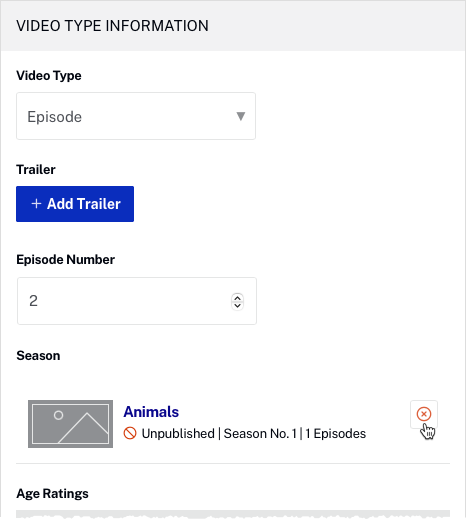
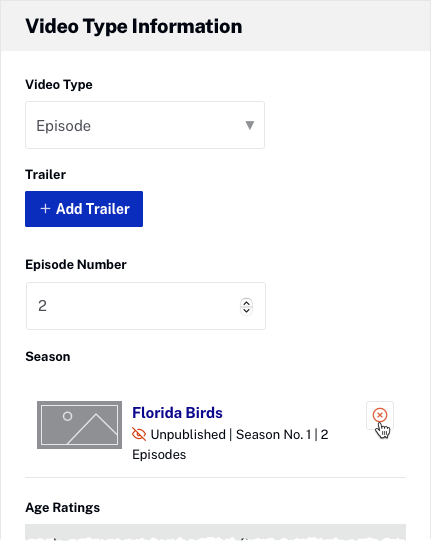
updates

diff --git a/_site/media/creating-series-seasons-episodes.html b/_site/media/creating-series-seasons-episodes.html
@@ -866,7 +866,7 @@ function doGTranslate(lang_pair) {if(lang_pair.value)lang_pair=lang_pair.value;i
             <ul>
               <li><strong>Landscape</strong> - 16x9 aspect ratio, minimum 2000px wide</li>
               <li><strong>Portrait</strong> - 2x3 aspect ratio, minimum 500px wide</li>
-              <li><strong>Ultra Wide</strong> - 21x9 aspect ratio, minimum 2000px wide</li>
+              <li><strong>Ultrawide</strong> - 21x9 aspect ratio, minimum 2000px wide</li>
             </ul>
           </li>
           <li><strong>Title</strong> - Viewer facing name for the series (displayed in Beacon app)</li>
@@ -1004,11 +1004,11 @@ function doGTranslate(lang_pair) {if(lang_pair.value)lang_pair=lang_pair.value;i
           <li><strong>Name</strong> - The identifier of the season; this is not a customer facing name</li>
           <li><strong>Season Number</strong> - An integer number representing the season sequence
             in the series.</li>
-          <li><strong>Landscape, Portrait and Ultra Wide </strong>Images - Click the <strong>Upload new image</strong> link to upload an image to use based upon the following specifications:
+          <li><strong>Landscape, Portrait and Ultrawide </strong>Images - Click the <strong>Upload new image</strong> link to upload an image to use based upon the following specifications:
             <ul>
               <li><strong>Landscape</strong> - 16x9 aspect ratio, minimum 2000px wide</li>
               <li><strong>Portrait</strong> - 2x3 aspect ratio, minimum 500px wide</li>
-              <li><strong>Ultra Wide</strong> - 21x9 aspect ratio, minimum 2000px wide</li>
+              <li><strong>Ultrawide</strong> - 21x9 aspect ratio, minimum 2000px wide</li>
             </ul>
           </li>
           <li><strong>Title</strong> - Viewer facing name for the season (displayed in Beacon app)
@@ -1098,7 +1098,7 @@ function doGTranslate(lang_pair) {if(lang_pair.value)lang_pair=lang_pair.value;i
   </section>
   <section class="bcls-section">
     <h2 id="adding_episodes">Adding episodes to seasons</h2>
-    <p> Before adding episodes (videos) to seasons, the videos should be uploaded to your Brightcove Beacon account. All videos added to a season will be displayed on the right side of the series Overview page.</p>
+    <p> Before adding episodes (videos) to seasons, the videos should be uploaded to your Brightcove Beacon account. All videos added to a season will be displayed on the right side of the season Overview page.</p>
     <figure class="bcls-figure"><img
           class="bcls-image"
           src="/assets/images/media/series-episode-list.png"
@@ -1129,7 +1129,7 @@ function doGTranslate(lang_pair) {if(lang_pair.value)lang_pair=lang_pair.value;i
       <li>In the primary navigation, click <strong>Media</strong>.</li>
       <li>Click <strong>All videos</strong>.</li>
       <li>Click on a video title to open the video details.</li>
-      <li>In the <strong>VIDEO TYPE INFORMATION</strong> section, set the <strong>Video Type</strong> to <strong>Episode</strong>.</li>
+      <li>In the <strong>Video Type Information</strong> section, set the <strong>Video Type</strong> to <strong>Episode</strong>.</li>
       <li>Click <strong>Add to Season</strong>.</li>
       <li>Click on a series and then click <strong>Next</strong>.
         <figure class="bcls-figure"><img
@@ -1177,7 +1177,7 @@ function doGTranslate(lang_pair) {if(lang_pair.value)lang_pair=lang_pair.value;i
       <li>In the primary navigation, click <strong>Media</strong>.</li>
       <li>Click <strong>All videos</strong>.</li>
       <li>Click on a video title to open the video details.</li>
-      <li>In the <strong>VIDEO TYPE INFORMATION</strong> section, hover over the season and click the remove (<img
+      <li>In the <strong>Video Type Information</strong> section, hover over the season and click the remove (<img
           class="bcls-image"
           src="/assets/images/media/icon-remove.png"
           alt=""

diff --git a/media/creating-series-seasons-episodes.html b/media/creating-series-seasons-episodes.html
@@ -60,7 +60,7 @@ parent: Managing Media
             <ul>
               <li><strong>Landscape</strong> - 16x9 aspect ratio, minimum 2000px wide</li>
               <li><strong>Portrait</strong> - 2x3 aspect ratio, minimum 500px wide</li>
-              <li><strong>Ultra Wide</strong> - 21x9 aspect ratio, minimum 2000px wide</li>
+              <li><strong>Ultrawide</strong> - 21x9 aspect ratio, minimum 2000px wide</li>
             </ul>
           </li>
           <li><strong>Title</strong> - Viewer facing name for the series (displayed in Beacon app)</li>
@@ -198,11 +198,11 @@ parent: Managing Media
           <li><strong>Name</strong> - The identifier of the season; this is not a customer facing name</li>
           <li><strong>Season Number</strong> - An integer number representing the season sequence
             in the series.</li>
-          <li><strong>Landscape, Portrait and Ultra Wide </strong>Images - Click the <strong>Upload new image</strong> link to upload an image to use based upon the following specifications:
+          <li><strong>Landscape, Portrait and Ultrawide </strong>Images - Click the <strong>Upload new image</strong> link to upload an image to use based upon the following specifications:
             <ul>
               <li><strong>Landscape</strong> - 16x9 aspect ratio, minimum 2000px wide</li>
               <li><strong>Portrait</strong> - 2x3 aspect ratio, minimum 500px wide</li>
-              <li><strong>Ultra Wide</strong> - 21x9 aspect ratio, minimum 2000px wide</li>
+              <li><strong>Ultrawide</strong> - 21x9 aspect ratio, minimum 2000px wide</li>
             </ul>
           </li>
           <li><strong>Title</strong> - Viewer facing name for the season (displayed in Beacon app)
@@ -292,7 +292,7 @@ parent: Managing Media
   </section>
   <section class="bcls-section">
     <h2 id="adding_episodes">Adding episodes to seasons</h2>
-    <p> Before adding episodes (videos) to seasons, the videos should be uploaded to your Brightcove Beacon account. All videos added to a season will be displayed on the right side of the series Overview page.</p>
+    <p> Before adding episodes (videos) to seasons, the videos should be uploaded to your Brightcove Beacon account. All videos added to a season will be displayed on the right side of the season Overview page.</p>
     <figure class="bcls-figure"><img
           class="bcls-image"
           src="/assets/images/media/series-episode-list.png"
@@ -323,7 +323,7 @@ parent: Managing Media
       <li>In the primary navigation, click <strong>Media</strong>.</li>
       <li>Click <strong>All videos</strong>.</li>
       <li>Click on a video title to open the video details.</li>
-      <li>In the <strong>VIDEO TYPE INFORMATION</strong> section, set the <strong>Video Type</strong> to <strong>Episode</strong>.</li>
+      <li>In the <strong>Video Type Information</strong> section, set the <strong>Video Type</strong> to <strong>Episode</strong>.</li>
       <li>Click <strong>Add to Season</strong>.</li>
       <li>Click on a series and then click <strong>Next</strong>.
         <figure class="bcls-figure"><img
@@ -371,7 +371,7 @@ parent: Managing Media
       <li>In the primary navigation, click <strong>Media</strong>.</li>
       <li>Click <strong>All videos</strong>.</li>
       <li>Click on a video title to open the video details.</li>
-      <li>In the <strong>VIDEO TYPE INFORMATION</strong> section, hover over the season and click the remove (<img
+      <li>In the <strong>Video Type Information</strong> section, hover over the season and click the remove (<img
           class="bcls-image"
           src="/assets/images/media/icon-remove.png"
           alt=""
